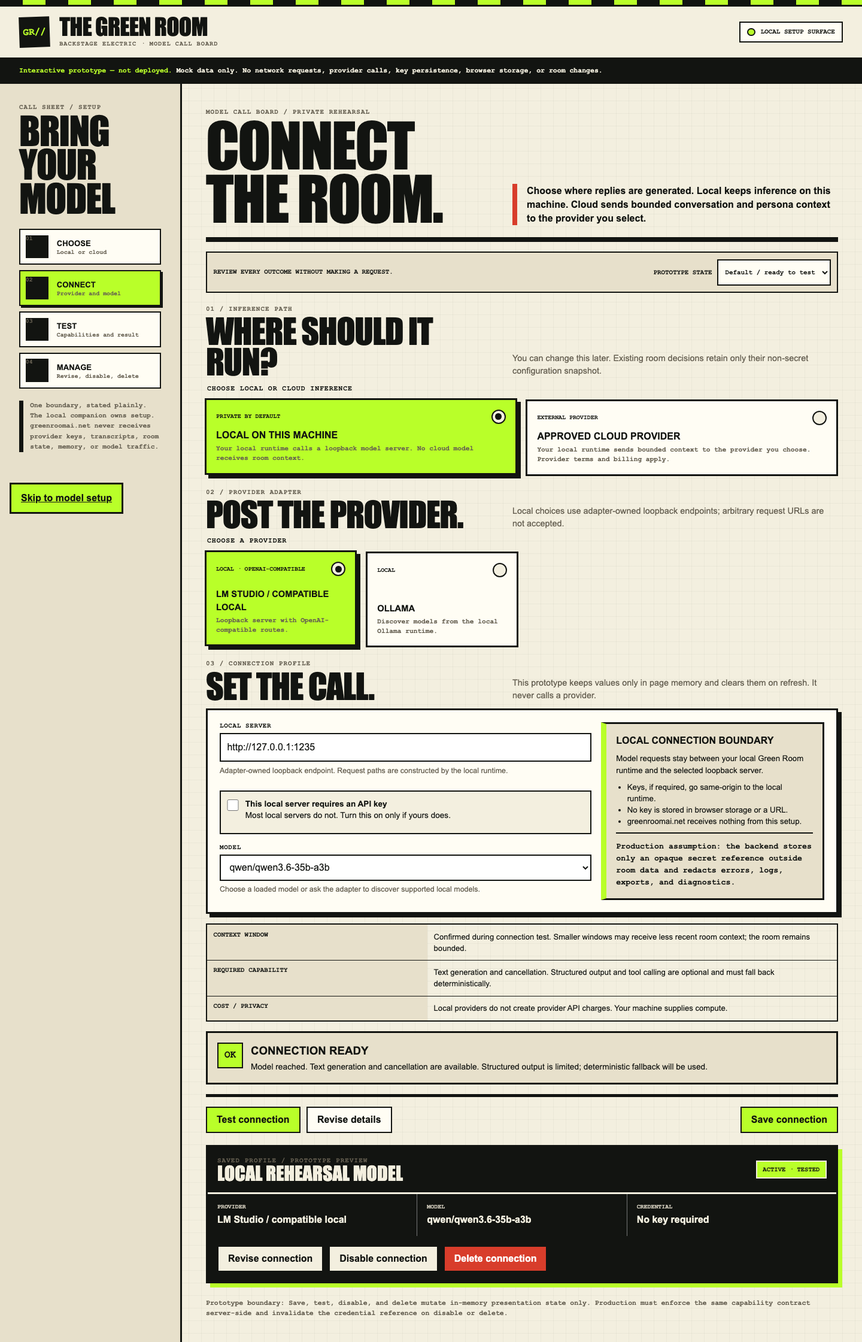
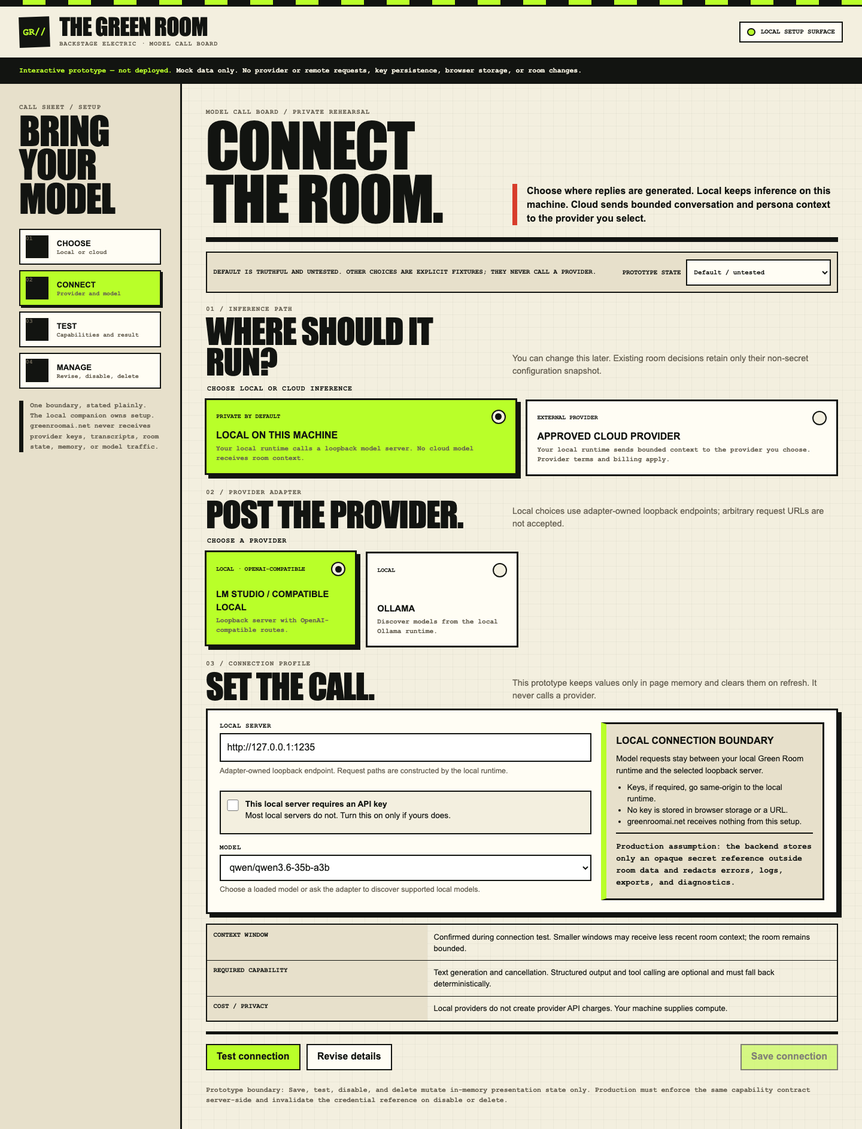
fix: require current provider test before save

diff --git a/design/prototypes/provider-setup/index.html b/design/prototypes/provider-setup/index.html
@@ -20,13 +20,13 @@
 <a class="skip" href="#setup-main">Skip to model setup</a>
 <div class="topline" aria-hidden="true"></div>
 <header class="mast"><div class="mark" aria-hidden="true">GR//</div><div class="brand"><strong>The Green Room</strong><small>Backstage Electric · model call board</small></div><div class="local-badge"><span class="lamp" aria-hidden="true"></span>Local setup surface</div></header>
-<div class="prototype-note"><strong>Interactive prototype — not deployed.</strong> Mock data only. No network requests, provider calls, key persistence, browser storage, or room changes.</div>
+<div class="prototype-note"><strong>Interactive prototype — not deployed.</strong> Mock data only. No provider or remote requests, key persistence, browser storage, or room changes.</div>
 <div class="shell">
 <aside class="rail" aria-label="Setup progress"><p class="kicker">Call sheet / setup</p><h1>Bring your model</h1><ol class="steps"><li class="step"><span class="step-number">01</span><div><strong>Choose</strong><span>Local or cloud</span></div></li><li class="step" aria-current="step"><span class="step-number">02</span><div><strong>Connect</strong><span>Provider and model</span></div></li><li class="step"><span class="step-number">03</span><div><strong>Test</strong><span>Capabilities and result</span></div></li><li class="step"><span class="step-number">04</span><div><strong>Manage</strong><span>Revise, disable, delete</span></div></li></ol><p class="rail-note"><strong>One boundary, stated plainly.</strong><br>The local companion owns setup. greenroomai.net never receives provider keys, transcripts, room state, memory, or model traffic.</p></aside>
 <main class="main" id="setup-main" tabindex="-1">
 <div class="mobile-progress"><span>Provider setup</span><b>Step 2 of 4</b></div>
 <header class="hero"><div><p class="kicker">Model call board / private rehearsal</p><h2>Connect the room.</h2></div><p class="hero-copy">Choose where replies are generated. Local keeps inference on this machine. Cloud sends bounded conversation and persona context to the provider you select.</p></header>
-<div class="state-tools"><p>Review every outcome without making a request.</p><label for="demo-state">Prototype state<select id="demo-state"><option value="default">Default / ready to test</option><option value="loading">Testing connection</option><option value="success">Connection success</option><option value="invalid-key">Invalid key</option><option value="model-unavailable">Unavailable model</option><option value="offline">Local server offline</option><option value="limited">Capability limitation</option></select></label></div>
+<div class="state-tools"><p>Default is truthful and untested. Other choices are explicit fixtures; they never call a provider.</p><label for="demo-state">Prototype state<select id="demo-state"><option value="default">Default / untested</option><option value="loading">Fixture / testing connection</option><option value="success">Fixture / connection success</option><option value="invalid-key">Fixture / invalid key</option><option value="model-unavailable">Fixture / unavailable model</option><option value="offline">Fixture / local server offline</option><option value="limited">Fixture / capability limitation</option></select></label></div>
 <form class="setup-form" id="setup-form" novalidate>
 <section class="section" aria-labelledby="path-title"><div class="section-head"><div><p class="kicker">01 / inference path</p><h2 class="section-title" id="path-title">Where should it run?</h2></div><p class="section-help">You can change this later. Existing room decisions retain only their non-secret configuration snapshot.</p></div><fieldset class="choice-group"><legend>Choose local or cloud inference</legend><div class="path-grid">
 <label class="choice"><input type="radio" name="path" value="local" checked><span class="choice-top"><span class="choice-kind">Private by default</span><span class="radio-dot" aria-hidden="true"></span></span><strong>Local on this machine</strong><small>Your local runtime calls a loopback model server. No cloud model receives room context.</small></label>
@@ -47,34 +47,38 @@
 </div><aside class="disclosure local" id="disclosure" aria-labelledby="disclosure-title"><strong id="disclosure-title">Local connection boundary</strong><p id="disclosure-copy">Model requests stay between your local Green Room runtime and the selected loopback server.</p><ul id="disclosure-list"><li>Keys, if required, go same-origin to the local runtime.</li><li>No key is stored in browser storage or a URL.</li><li>greenroomai.net receives nothing from this setup.</li></ul><p class="security-line">Production assumption: the backend stores only an opaque secret reference outside room data and redacts errors, logs, exports, and diagnostics.</p></aside></div>
 <dl class="capability" aria-label="Model capability and cost context"><div class="cap-row"><dt>Context window</dt><dd id="context-result">Confirmed during connection test. Smaller windows may receive less recent room context; the room remains bounded.</dd></div><div class="cap-row"><dt>Required capability</dt><dd>Text generation and cancellation. Structured output and tool calling are optional and must fall back deterministically.</dd></div><div class="cap-row"><dt>Cost / privacy</dt><dd id="cost-result">Local providers do not create provider API charges. Your machine supplies compute.</dd></div></dl>
 <div class="result" id="test-result" role="status" aria-live="polite" hidden><span class="result-icon" aria-hidden="true">…</span><div><h3 id="result-title">Testing connection</h3><p id="result-copy">Checking reachability, model availability, and required capabilities with mock data.</p></div></div>
-<div class="actions"><button class="button button-primary" id="test-button" type="button">Test connection</button><button class="button" id="revise-button" type="button">Revise details</button><button class="button button-primary save" id="save-button" type="submit">Save connection</button></div>
+<div class="actions"><button class="button button-primary" id="test-button" type="button">Test connection</button><button class="button" id="revise-button" type="button">Revise details</button><button class="button button-primary save" id="save-button" type="submit" disabled>Save connection</button></div>
 </section>
-<section class="profile" id="profile" aria-labelledby="profile-title"><div class="profile-head"><div><p class="kicker">Saved profile / prototype preview</p><h3 id="profile-title">Local rehearsal model</h3></div><span class="status-pill" id="profile-status">Active · tested</span></div><div class="profile-body"><div class="profile-fact"><span>Provider</span><strong id="profile-provider">LM Studio / compatible local</strong></div><div class="profile-fact"><span>Model</span><strong id="profile-model">qwen/qwen3.6-35b-a3b</strong></div><div class="profile-fact"><span>Credential</span><strong id="profile-secret">No key required</strong></div></div><div class="profile-actions"><button class="button" id="profile-revise" type="button">Revise connection</button><button class="button" id="disable-button" type="button">Disable connection</button><button class="button button-danger" id="delete-button" type="button">Delete connection</button></div></section>
+<section class="profile" id="profile" aria-labelledby="profile-title" hidden><div class="profile-head"><div><p class="kicker">Saved profile / prototype preview</p><h3 id="profile-title">Local rehearsal model</h3></div><span class="status-pill" id="profile-status">Active · tested</span></div><div class="profile-body"><div class="profile-fact"><span>Provider</span><strong id="profile-provider"></strong></div><div class="profile-fact"><span>Model</span><strong id="profile-model"></strong></div><div class="profile-fact"><span>Credential</span><strong id="profile-secret"></strong></div></div><div class="profile-actions"><button class="button" id="profile-revise" type="button">Revise connection</button><button class="button" id="disable-button" type="button">Disable connection</button><button class="button button-danger" id="delete-button" type="button">Delete connection</button></div></section>
 <p class="bottom-note"><strong>Prototype boundary:</strong> Save, test, disable, and delete mutate in-memory presentation state only. Production must enforce the same capability contract server-side and invalidate the credential reference on disable or delete.</p>
 </form></main></div>
 <dialog id="delete-dialog" aria-labelledby="delete-title" aria-describedby="delete-copy"><div class="confirm"><p class="kicker">Strike this call sheet</p><h2 id="delete-title">Delete connection?</h2><p id="delete-copy">The connection profile and its local credential reference will be removed. Existing non-secret decision snapshots remain readable. Rooms using this connection must choose another model before generating.</p><div class="actions"><button class="button" id="keep-button" type="button">Keep connection</button><button class="button button-danger" id="confirm-delete" type="button">Delete connection</button></div></div></dialog>
 <script>
 (()=>{"use strict";
 const providers={lmstudio:{path:"local",name:"LM Studio / compatible local",endpoint:"http://127.0.0.1:1235",models:[["qwen/qwen3.6-35b-a3b","qwen/qwen3.6-35b-a3b"],["discover","Discover loaded models when tested"]]},ollama:{path:"local",name:"Ollama",endpoint:"http://127.0.0.1:11434",models:[["llama3.2","llama3.2"],["discover","Discover installed models when tested"]]},"openai-cloud":{path:"cloud",name:"OpenAI-compatible cloud",endpoint:"Approved provider definition",models:[["gpt-4.1-mini","gpt-4.1-mini"],["gpt-4.1","gpt-4.1"]]},anthropic:{path:"cloud",name:"Anthropic",endpoint:"Approved Anthropic definition",models:[["claude-sonnet-4-20250514","claude-sonnet-4-20250514"],["claude-opus-4-20250514","claude-opus-4-20250514"]]}};
-const state={path:"local",provider:"lmstudio",disabled:false,deleted:false,tested:true};
+const state={path:"local",provider:"lmstudio",disabled:false,deleted:false,draftRevision:1,testedRevision:null,pendingToken:null,nextToken:0};
 const q=(s)=>document.querySelector(s),qa=(s)=>[...document.querySelectorAll(s)];
-const endpoint=q("#endpoint"),model=q("#model"),keyField=q("#key-field"),key=q("#provider-key"),needsKey=q("#needs-local-key"),localKeyToggle=q("#local-key-toggle"),cloudAckWrap=q("#cloud-ack-wrap"),cloudAck=q("#cloud-ack"),disclosure=q("#disclosure"),disclosureTitle=q("#disclosure-title"),disclosureCopy=q("#disclosure-copy"),disclosureList=q("#disclosure-list"),result=q("#test-result"),resultTitle=q("#result-title"),resultCopy=q("#result-copy"),resultIcon=result.querySelector(".result-icon"),profile=q("#profile"),dialog=q("#delete-dialog");
+const endpoint=q("#endpoint"),model=q("#model"),keyField=q("#key-field"),key=q("#provider-key"),needsKey=q("#needs-local-key"),localKeyToggle=q("#local-key-toggle"),cloudAckWrap=q("#cloud-ack-wrap"),cloudAck=q("#cloud-ack"),disclosure=q("#disclosure"),disclosureTitle=q("#disclosure-title"),disclosureCopy=q("#disclosure-copy"),disclosureList=q("#disclosure-list"),result=q("#test-result"),resultTitle=q("#result-title"),resultCopy=q("#result-copy"),resultIcon=result.querySelector(".result-icon"),profile=q("#profile"),saveButton=q("#save-button"),demoState=q("#demo-state"),dialog=q("#delete-dialog");
 function replaceList(items){disclosureList.replaceChildren(...items.map(text=>{const li=document.createElement("li");li.textContent=text;return li}))}
 function fillModels(){model.replaceChildren(...providers[state.provider].models.map(([value,label])=>{const option=document.createElement("option");option.value=value;option.textContent=label;return option}))}
-function renderProvider(){const p=providers[state.provider];endpoint.value=p.endpoint;fillModels();q("#endpoint-field").hidden=false;if(p.path==="local"){localKeyToggle.hidden=false;keyField.hidden=!needsKey.checked;cloudAckWrap.hidden=true;disclosure.className="disclosure local";disclosureTitle.textContent="Local connection boundary";disclosureCopy.textContent="Model requests stay between your local Green Room runtime and the selected loopback server.";replaceList(["Keys, if required, go same-origin to the local runtime.","No key is stored in browser storage or a URL.","greenroomai.net receives nothing from this setup."]);q("#cost-result").textContent="Local providers do not create provider API charges. Your machine supplies compute."}else{localKeyToggle.hidden=true;needsKey.checked=true;keyField.hidden=false;cloudAckWrap.hidden=false;key.querySelector?null:null;disclosure.className="disclosure cloud";disclosureTitle.textContent="Cloud context disclosure";disclosureCopy.textContent="When this connection generates a reply, your local runtime sends bounded room context directly to the selected cloud provider.";replaceList(["May include persona instructions, scene, relevant memory, and recent transcript.","Provider terms, retention, privacy, and billing apply.","greenroomai.net does not receive or proxy keys, context, or replies."]);q("#cost-result").textContent="Cloud usage may be billed by the selected provider. Review its current pricing and data terms before use."}q("#provider-help").textContent=p.path==="local"?"Local choices use adapter-owned loopback endpoints; arbitrary request URLs are not accepted.":"Cloud choices use approved provider definitions and adapter-built paths; arbitrary request URLs are not accepted.";q("#profile-provider").textContent=p.name;q("#profile-model").textContent=model.value;q("#profile-secret").textContent=p.path==="cloud"?"Opaque local secret reference":"No key required"}
-function choosePath(path){state.path=path;qa("[data-path]").forEach(card=>{card.hidden=card.dataset.path!==path;const input=card.querySelector("input");input.disabled=card.hidden});const first=qa(`[data-path="${path}"]`).find(card=>!card.hidden).querySelector("input");if(!providers[state.provider]||providers[state.provider].path!==path){first.checked=true;state.provider=first.value}renderProvider();showResult("default")}
-function showResult(kind){const outputs={loading:["loading","…","Testing connection","Checking reachability, model availability, and required capabilities with mock data."],success:["success","OK","Connection ready","Model reached. Text generation and cancellation are available. Structured output is limited; deterministic fallback will be used."],"invalid-key":["error","!","Key was not accepted","Authentication failed. Re-enter the key; the value is not shown, logged, exported, or included in diagnostics."],"model-unavailable":["error","!","Model unavailable","The server responded, but this model is not loaded or available. Choose another model or load it in the provider."],offline:["error","!","Local server offline","Nothing answered at the selected loopback endpoint. Start the local server, confirm its port, then test again."],limited:["warning","!","Connected with limitations","Text generation works. Structured output and tool calling are unavailable; the director will use deterministic fallbacks."],default:null};const data=outputs[kind];if(!data){result.hidden=true;return}result.hidden=false;result.dataset.tone=data[0];resultIcon.textContent=data[1];resultTitle.textContent=data[2];resultCopy.textContent=data[3];state.tested=kind==="success"||kind==="limited";if(kind==="success"||kind==="limited"){q("#profile-status").textContent="Active · tested";q("#profile-model").textContent=model.options[model.selectedIndex]?.textContent||model.value}}
+function renderProvider(){const p=providers[state.provider];endpoint.value=p.endpoint;fillModels();q("#endpoint-field").hidden=false;if(p.path==="local"){localKeyToggle.hidden=false;keyField.hidden=!needsKey.checked;cloudAckWrap.hidden=true;disclosure.className="disclosure local";disclosureTitle.textContent="Local connection boundary";disclosureCopy.textContent="Model requests stay between your local Green Room runtime and the selected loopback server.";replaceList(["Keys, if required, go same-origin to the local runtime.","No key is stored in browser storage or a URL.","greenroomai.net receives nothing from this setup."]);q("#cost-result").textContent="Local providers do not create provider API charges. Your machine supplies compute."}else{localKeyToggle.hidden=true;needsKey.checked=true;keyField.hidden=false;cloudAckWrap.hidden=false;disclosure.className="disclosure cloud";disclosureTitle.textContent="Cloud context disclosure";disclosureCopy.textContent="When this connection generates a reply, your local runtime sends bounded room context directly to the selected cloud provider.";replaceList(["May include persona instructions, scene, relevant memory, and recent transcript.","Provider terms, retention, privacy, and billing apply.","greenroomai.net does not receive or proxy keys, context, or replies."]);q("#cost-result").textContent="Cloud usage may be billed by the selected provider. Review its current pricing and data terms before use."}q("#provider-help").textContent=p.path==="local"?"Local choices use adapter-owned loopback endpoints; arbitrary request URLs are not accepted.":"Cloud choices use approved provider definitions and adapter-built paths; arbitrary request URLs are not accepted."}
+function isCurrentSuccess(){return state.testedRevision===state.draftRevision}
+function invalidateDraft(){state.draftRevision+=1;state.pendingToken=null;state.testedRevision=null;saveButton.disabled=true;result.hidden=true;demoState.value="default"}
+function choosePath(path,changed=true){state.path=path;qa("[data-path]").forEach(card=>{card.hidden=card.dataset.path!==path;const input=card.querySelector("input");input.disabled=card.hidden});const first=qa(`[data-path="${path}"]`).find(card=>!card.hidden).querySelector("input");if(!providers[state.provider]||providers[state.provider].path!==path){first.checked=true;state.provider=first.value}renderProvider();if(changed)invalidateDraft()}
+function showResult(kind,{fixture=false}={}){const outputs={loading:["loading","…","Testing connection",fixture?"Showing a synthetic pending fixture. No provider request is made.":"Capturing this exact draft revision. This prototype will not make a provider request."],success:["success","OK","Connection ready","Synthetic fixture: the exact current draft passed reachability, model, and capability checks. No provider request was made."],"invalid-key":["error","!","Key was not accepted","Synthetic fixture: authentication failed. The value is not shown, logged, exported, or included in diagnostics."],"model-unavailable":["error","!","Model unavailable","Synthetic fixture: the server responded, but this model is not loaded or available."],offline:["error","!","Local server offline","Synthetic fixture: nothing answered at the selected loopback endpoint."],limited:["warning","!","Connected with limitations","Synthetic fixture: text generation works; deterministic fallbacks cover unsupported optional capabilities."],"prototype-unavailable":["error","!","Prototype cannot test connections","No provider request was made. Use an explicit fixture to review result states; production must test through the authorized local runtime."],"needs-test":["error","!","Test current draft","Save requires a successful connection test for the exact current provider, path, model, credential input, and cloud acknowledgment."],default:null};const data=outputs[kind];if(!data){result.hidden=true;state.testedRevision=null;saveButton.disabled=true;return}result.hidden=false;result.dataset.tone=data[0];resultIcon.textContent=data[1];resultTitle.textContent=data[2];resultCopy.textContent=data[3];if(kind==="success"||kind==="limited"){state.testedRevision=state.draftRevision;saveButton.disabled=false}else if(kind!=="loading"){state.testedRevision=null;saveButton.disabled=true}}
 qa("input[name=path]").forEach(input=>input.addEventListener("change",()=>choosePath(input.value)));
-qa("input[name=provider]").forEach(input=>input.addEventListener("change",()=>{state.provider=input.value;renderProvider();showResult("default")}));
-needsKey.addEventListener("change",()=>{keyField.hidden=!needsKey.checked;if(!needsKey.checked)key.value="";q("#profile-secret").textContent=needsKey.checked?"Opaque local secret reference":"No key required"});
-model.addEventListener("change",()=>{q("#profile-model").textContent=model.options[model.selectedIndex].textContent;showResult("default")});
-q("#demo-state").addEventListener("change",e=>showResult(e.target.value));
-q("#test-button").addEventListener("click",()=>{showResult("loading");window.setTimeout(()=>{showResult("success");q("#demo-state").value="success"},700)});
+qa("input[name=provider]").forEach(input=>input.addEventListener("change",()=>{state.provider=input.value;renderProvider();invalidateDraft()}));
+needsKey.addEventListener("change",()=>{keyField.hidden=!needsKey.checked;if(!needsKey.checked)key.value="";invalidateDraft()});
+model.addEventListener("change",invalidateDraft);
+key.addEventListener("input",invalidateDraft);
+cloudAck.addEventListener("change",invalidateDraft);
+demoState.addEventListener("change",e=>showResult(e.target.value,{fixture:true}));
+q("#test-button").addEventListener("click",()=>{const revision=state.draftRevision,token=++state.nextToken;state.pendingToken=token;showResult("loading");window.setTimeout(()=>{if(state.pendingToken!==token||state.draftRevision!==revision)return;state.pendingToken=null;showResult("prototype-unavailable")},700)});
 function revise(){q("#connection-title").focus();q("#connection-title").scrollIntoView({block:"start"})}q("#revise-button").addEventListener("click",revise);q("#profile-revise").addEventListener("click",revise);
-q("#setup-form").addEventListener("submit",e=>{e.preventDefault();if(providers[state.provider].path==="cloud"&&(!cloudAck.checked||key.value.trim()==="")){showResult("invalid-key");resultTitle.textContent=!cloudAck.checked?"Cloud disclosure not acknowledged":"Key required";resultCopy.textContent=!cloudAck.checked?"Acknowledge what context leaves this machine before saving a cloud connection.":"Enter a provider key. It will be handled transiently by the local runtime and never stored in browser storage.";result.scrollIntoView({block:"nearest"});return}state.deleted=false;profile.hidden=false;showResult("success");q("#profile-status").textContent="Active · tested";profile.scrollIntoView({block:"nearest"})});
+q("#setup-form").addEventListener("submit",e=>{e.preventDefault();if(!isCurrentSuccess()){showResult("needs-test");result.scrollIntoView({block:"nearest"});return}if(providers[state.provider].path==="cloud"&&(!cloudAck.checked||key.value.trim()==="")){state.testedRevision=null;saveButton.disabled=true;showResult("invalid-key");resultTitle.textContent=!cloudAck.checked?"Cloud disclosure not acknowledged":"Key required";resultCopy.textContent=!cloudAck.checked?"Acknowledge what context leaves this machine, then test this exact draft again.":"Enter a provider key, then test this exact draft again. It is never stored in browser storage.";result.scrollIntoView({block:"nearest"});return}state.deleted=false;profile.hidden=false;q("#profile-provider").textContent=providers[state.provider].name;q("#profile-model").textContent=model.options[model.selectedIndex]?.textContent||model.value;q("#profile-secret").textContent=providers[state.provider].path==="cloud"||needsKey.checked?"Opaque local secret reference":"No key required";q("#profile-status").textContent="Active · tested";key.value="";saveButton.disabled=true;state.testedRevision=null;profile.scrollIntoView({block:"nearest"})});
 q("#disable-button").addEventListener("click",()=>{state.disabled=!state.disabled;q("#profile-status").textContent=state.disabled?"Disabled · no calls":"Active · tested";q("#disable-button").textContent=state.disabled?"Enable connection":"Disable connection"});
-q("#delete-button").addEventListener("click",()=>dialog.showModal());q("#keep-button").addEventListener("click",()=>dialog.close());q("#confirm-delete").addEventListener("click",()=>{dialog.close();profile.hidden=true;state.deleted=true;key.value="";showResult("default");q("#test-button").focus()});dialog.addEventListener("click",e=>{if(e.target===dialog)dialog.close()});
-choosePath("local");showResult("success");
+q("#delete-button").addEventListener("click",()=>dialog.showModal());q("#keep-button").addEventListener("click",()=>dialog.close());q("#confirm-delete").addEventListener("click",()=>{dialog.close();profile.hidden=true;state.deleted=true;key.value="";invalidateDraft();q("#test-button").focus()});dialog.addEventListener("click",e=>{if(e.target===dialog)dialog.close()});
+choosePath("local",false);showResult("default");
 })();
 </script>
 </body>

diff --git a/design/prototypes/provider-setup/DESIGN.md b/design/prototypes/provider-setup/DESIGN.md
@@ -4,7 +4,7 @@
 
 This contract covers the standalone prototype at `design/prototypes/provider-setup/index.html`. It is an implementation-ready design exploration, not deployed functionality, an accepted API contract, or permission to wire production provider routes. Kent must approve the direction before implementation handoff.
 
-The prototype is intentionally self-contained. It uses synthetic labels and in-memory interaction state; it makes no network requests, stores no credential, uses no browser storage, and changes no room or provider record.
+The prototype is intentionally self-contained. It uses synthetic labels and in-memory interaction state; it makes no provider request, stores no credential, uses no browser storage, and changes no room or provider record. Its default state is untested: the result and saved-profile preview are hidden and Save is unavailable.
 
 ## Problem and recommendation
 
@@ -52,9 +52,9 @@ Happy path:
 3. The adapter supplies a fixed loopback endpoint or approved cloud definition.
 4. User chooses or discovers a model.
 5. A local user optionally discloses that their loopback server requires a key. A cloud user enters a key and acknowledges which bounded context may leave the machine.
-6. User tests the connection.
-7. The result distinguishes reachability, model availability, and capability support.
-8. User saves a revisioned connection/model profile.
+6. User tests the exact current draft. Production captures an immutable draft revision and request token at test start.
+7. The result distinguishes reachability, model availability, and capability support. A delayed result is discarded if its token/revision no longer matches the current draft.
+8. User saves a revisioned connection/model profile only after success for that exact current draft.
 9. User can revise, disable, re-enable, or delete the profile later.
 
 Recovery paths:
@@ -63,7 +63,7 @@ Recovery paths:
 - Model unavailable: retain the connection choice and move focus logically to model selection.
 - Local server offline: explain that nothing answered at the selected loopback endpoint; do not imply a key problem.
 - Capability limitation: permit use only when deterministic fallback satisfies the room requirement; name the missing capability.
-- Stale/changed model: require a new test before binding the revision to new room decisions.
+- Stale/changed draft: every path, provider, model, key requirement/value, and cloud-acknowledgment change invalidates test success and Save eligibility. Require a new test before saving or binding the revision to new room decisions.
 - Delete: confirm consequences, invalidate the local credential reference, preserve readable non-secret historical decision snapshots, and require affected rooms to choose another active profile before generation.
 
 Completion: an active, tested connection and exact model-profile revision are available for room binding. A “test succeeded” result alone is not a save or room mutation.
@@ -107,19 +107,19 @@ The energy is reserved for hierarchy and state. Credential and cloud disclosures
 | --- | --- | --- | --- |
 | Default | Selections and disclosures; no result panel | Test connection | None |
 | Loading | “Testing connection”; controls that would duplicate mutation disabled in production | Cancel/timeout handled by backend | Testing connection |
-| Success | Reachable model and required capability result | Save exact revision | Connection ready |
+| Success | Reachable model and required capability result for the exact current draft; Save becomes eligible | Save exact revision | Connection ready |
 | Invalid key | Sanitized auth failure; no echoed key, header, provider body, or account detail | Re-enter key | Key was not accepted |
 | Model unavailable | Server reachable, selected model absent/unloaded | Choose/discover another model | Model unavailable |
 | Local server offline | Loopback endpoint did not answer | Start server/verify adapter-owned port/retry | Local server offline |
 | Capability limitation | Exact missing optional/required capability and deterministic fallback | Accept safe fallback or choose model | Connected with limitations |
 | Saved | Active tested revision; non-secret facts only | Revise/disable/delete | Connection saved |
-| Revised/stale | New draft separate from last active revision | Retest before binding | Retest required |
+| Revised/stale | New draft separate from last active revision; result hidden and Save unavailable | Retest before saving or binding | Retest required |
 | Disabled | No new provider calls or bindings; secret reference invalidated per accepted backend contract | Re-enable and retest | Connection disabled |
 | Deleted | Profile gone from discovery; affected rooms cannot generate with it | Select replacement; recreation is a new profile | Connection deleted |
 | Denied/read-only | Management controls absent or disabled only as a reflection of server capability response | Contact local administrator where such a role exists | Action unavailable |
 | Backend unavailable | Existing non-secret profile may be readable; no test/save/delete mutation | Retry without losing typed key to logs/storage | Local runtime unavailable |
 
-The prototype state selector exercises the required test outcomes without a request. Test/revise/disable/delete controls exercise local presentation behavior only.
+The prototype state selector labels every non-default outcome as a fixture and exercises required states without a request. Selecting a success/limited fixture marks only the exact current in-memory draft as tested so the Save gate can be reviewed; any relevant edit invalidates it. The ordinary Test connection control captures a draft revision/token, shows pending state, and then truthfully reports that this offline prototype cannot test a provider. It never fabricates local or cloud success. Test/revise/disable/delete controls exercise local presentation behavior only.
 
 ## Actor × scope × capability matrix
 
@@ -139,6 +139,7 @@ Backend enforcement assumptions:
 - Object IDs are server-scoped to the local companion and verified on every mutation to prevent IDOR/confused-deputy use.
 - Request schemas allowlist mutable fields; client-supplied credential references, status, capabilities, provider URL, headers, revision, and audit actor are rejected to prevent mass assignment.
 - Test and save reconstruct endpoint paths from adapter/provider definitions; direct API calls cannot override the closed endpoint class.
+- Test completion is accepted only when its immutable request token and draft revision still match the current draft. Save/activation requires successful test evidence for that exact revision; the server rejects stale, absent, client-invented, or mismatched evidence.
 - A room binding accepts only an exact active tested model-profile revision. Drafting or testing does not approve or mutate a room binding.
 - Denied/not-found responses do not reveal profile existence, model counts, key presence, endpoint details, or provider-account metadata.
 
@@ -195,12 +196,25 @@ Required events: profile created, revision proposed, connection test started/com
 7. Connection test → no transcript, persona pack, room memory, or scene context is sent.
 8. Disable/delete → subsequent provider call and room-binding attempts fail server-side; opaque credential reference is invalidated as defined by the backend contract.
 9. Existing decision snapshot after deletion → remains readable and non-secret, but cannot resolve to a callable mutable profile.
-10. Loading selection changes before result → stale result is discarded by revision/request token.
+10. Loading selection changes before result → stale result is discarded by revision/request token; result stays hidden and Save stays unavailable.
 11. Keyboard-only path covers every radio, checkbox, select, test/save/manage action, modal cancel/confirm, and skip link with visible focus.
 12. Viewports 320, 390, 760, 1050, and desktop show no horizontal overflow; targets remain at least 44px.
 13. Reduced motion removes transforms/transitions; 200% zoom reflows.
-14. Offline prototype load makes zero remote requests and performs no persistence.
+14. Offline prototype load makes zero remote/provider requests and performs no persistence. Default Test ends in an honest prototype-unavailable failure for both local and cloud paths; only the explicitly labeled selector can show fixtures.
 15. Console remains free of uncaught errors and warnings while every prototype state and management action is exercised.
+16. Default load has no result or Active/tested preview and cannot save. Path, provider, model, local-key requirement, key value, and cloud acknowledgment each invalidate success and Save eligibility.
+17. Save/activation fails before a current-draft success, succeeds for the exact current revision, and remains unavailable after a failure fixture.
+18. A sentinel key never appears in rendered text, local/session storage, cookies, IndexedDB, Cache Storage, request URLs/headers/bodies, screenshots, or cross-origin requests.
+
+Automated browser verification lives beside the prototype:
+
+```bash
+cd design/prototypes/provider-setup
+npm ci
+npm run verify
+```
+
+The Playwright verifier covers the truthful default, delayed stale-result discard, every invalidating input, save gating, exact-revision success, test failure, no fabricated local/cloud success, key non-rendering, browser-storage absence, request URL/header/body absence, horizontal overflow, console errors, and refreshed default-state screenshots at 1440×1100 and 390×844.
 
 ## Implementation inventory and non-goals
 
